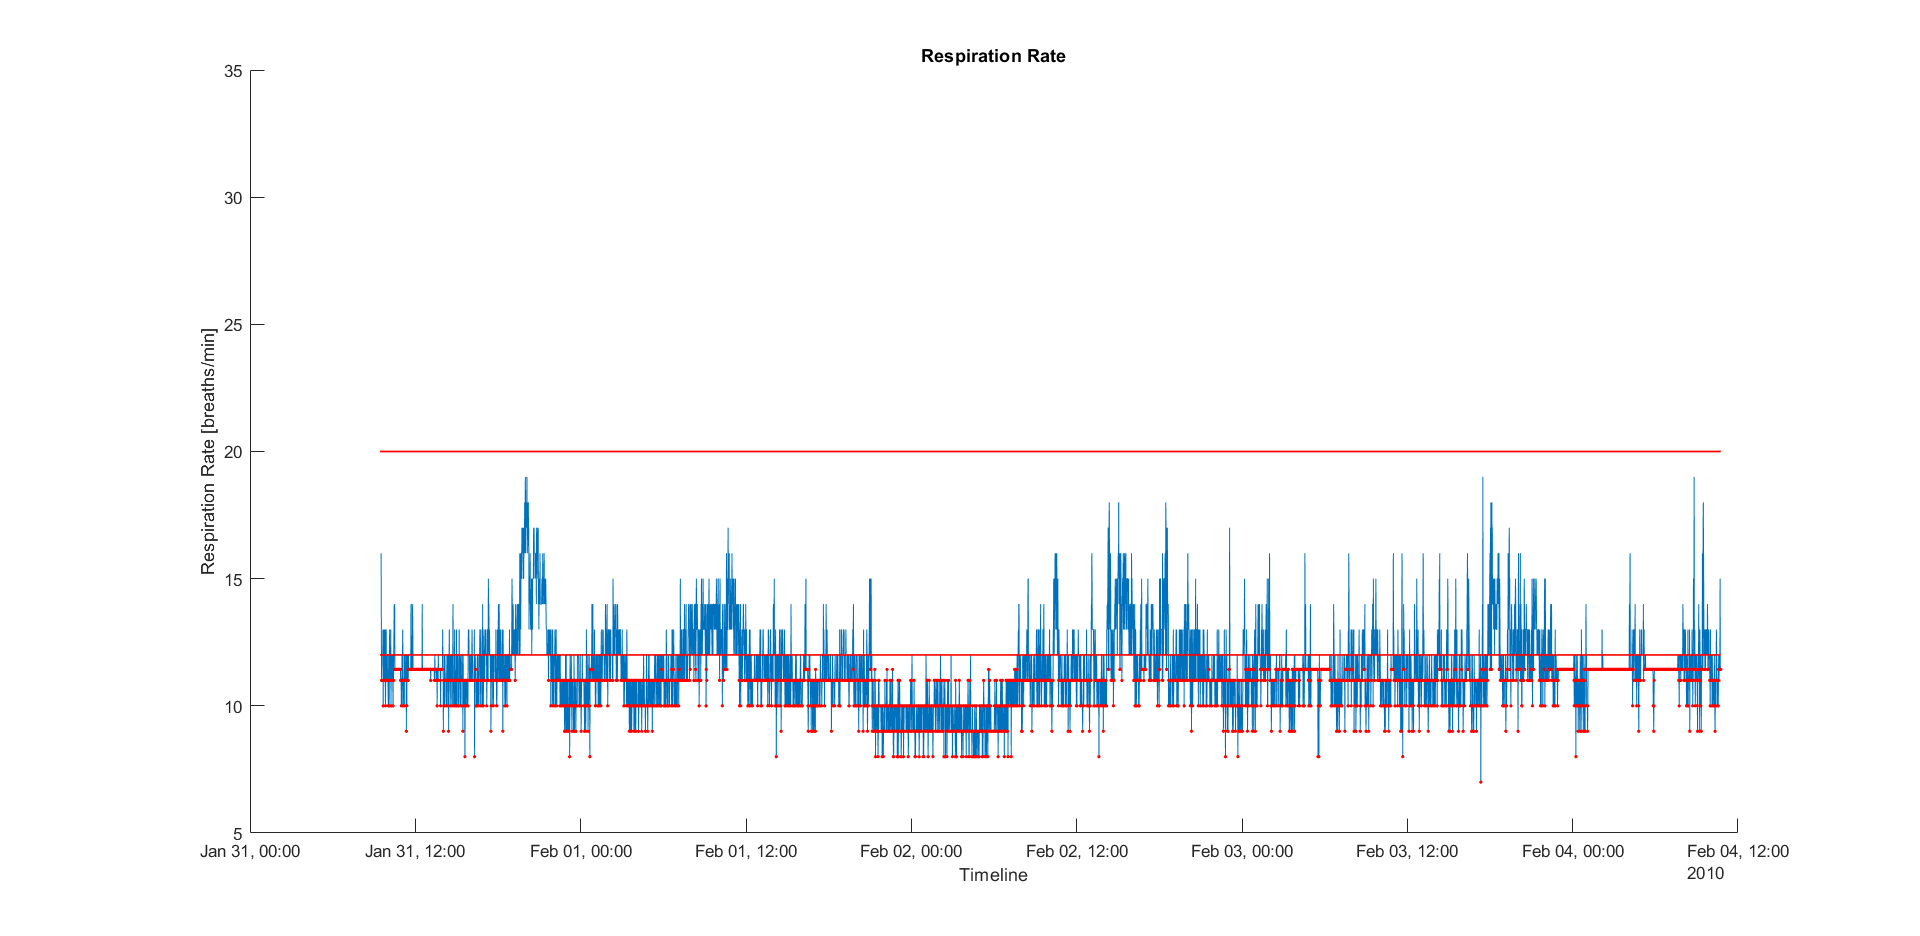
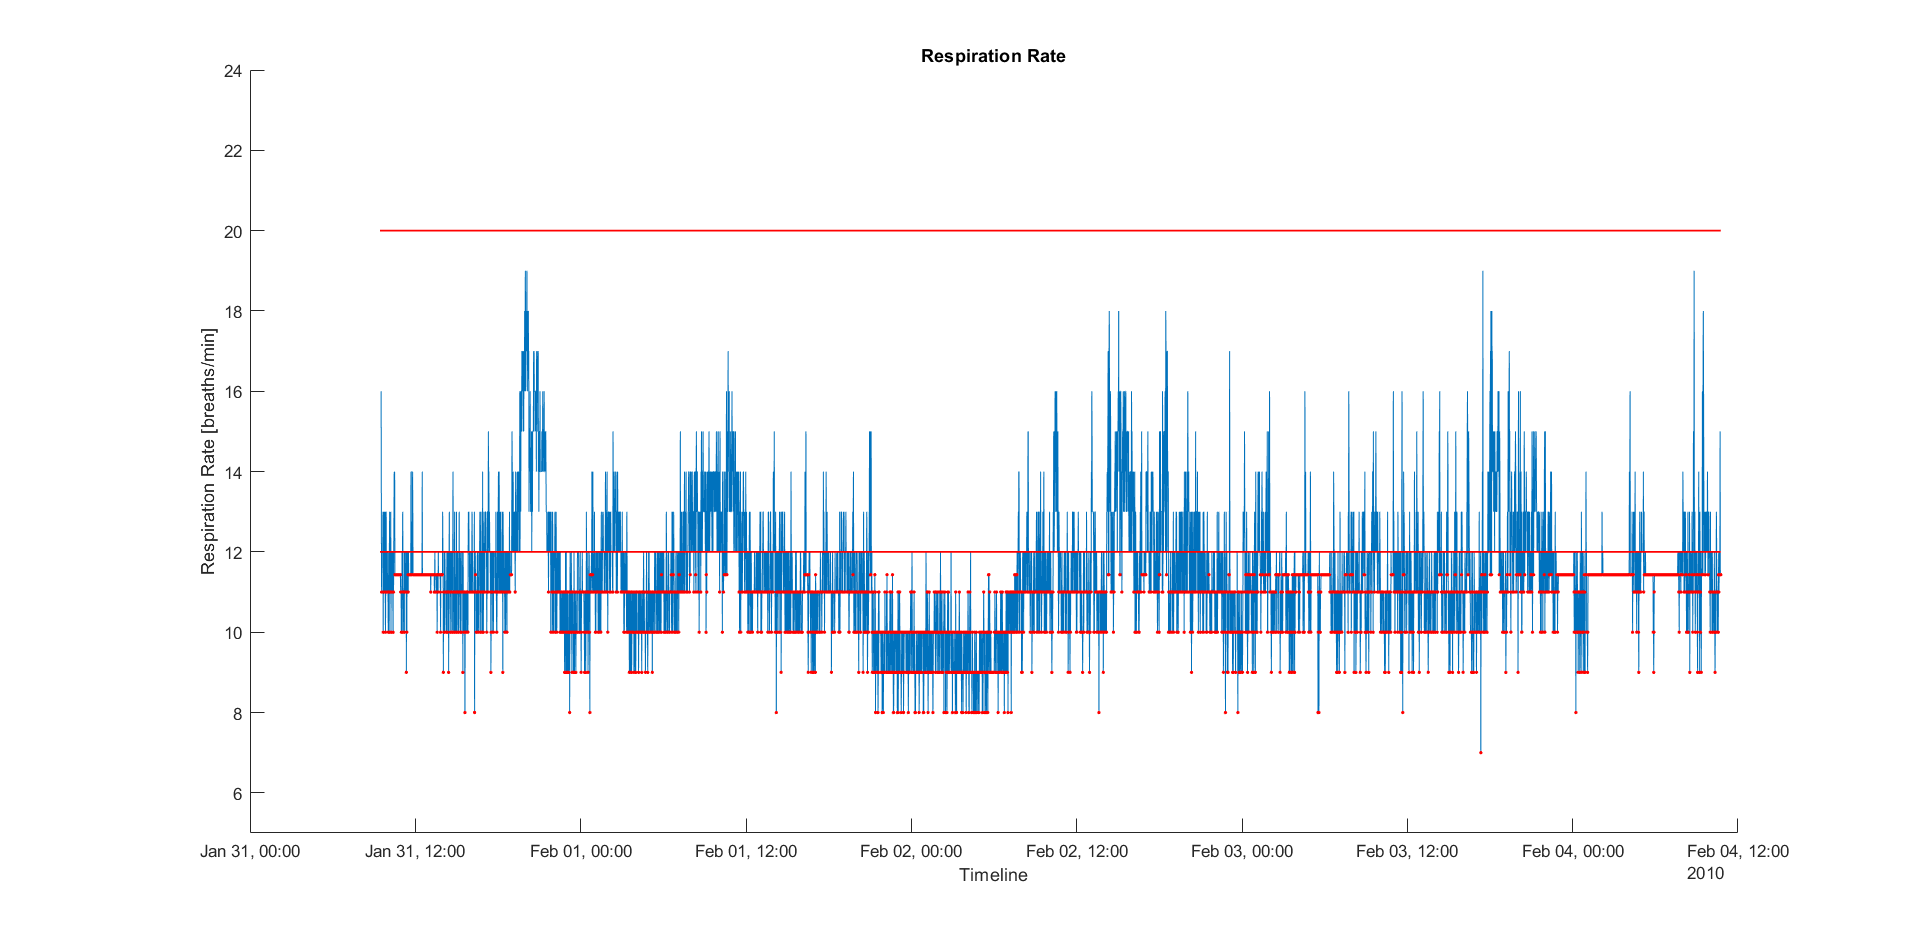
asd

Changed region(s): [[0.1875, 0.3718, 0.9062, 0.8365], [0.2188, 0.2169, 0.875, 0.2479]]

diff --git a/BigData.m b/BigData.m
@@ -203,7 +203,7 @@ end
 title('Respiration Rate')
 xlabel('Timeline')
 ylabel('Respiration Rate [breaths/min]')
-ylim([min(RR)-2 35])
+ylim([min(RR)-2 max(RR)+5])
 
 hold off
 
